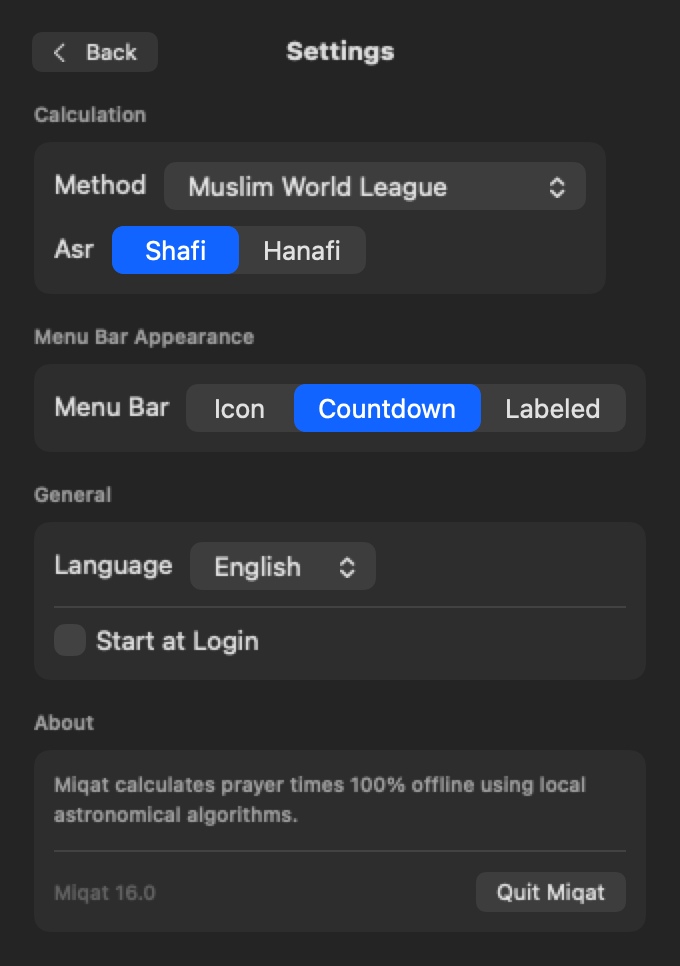
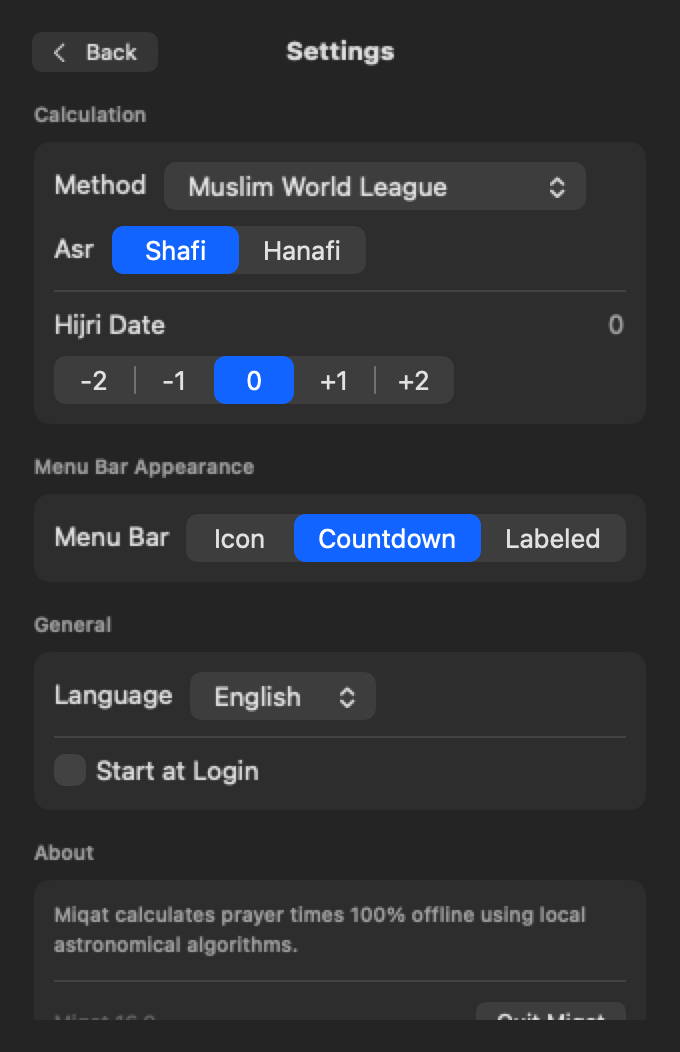
Fix Hijri calendar: use Umm al-Qura and add manual day offset

diff --git a/Miqat/Sources/SettingsView.swift b/Miqat/Sources/SettingsView.swift
@@ -56,6 +56,25 @@ struct SettingsView: View {
                                 }
                             }
                             .pickerStyle(.segmented)
+
+                            Divider()
+
+                            HStack {
+                                Text(localization.string("settings.hijriOffset"))
+                                Spacer()
+                                Text(hijriOffsetDisplay)
+                                    .foregroundStyle(.secondary)
+                            }
+
+                            Picker(localization.string("settings.hijriOffset"), selection: $store.hijriOffset) {
+                                Text("-2").tag(-2)
+                                Text("-1").tag(-1)
+                                Text("0").tag(0)
+                                Text("+1").tag(1)
+                                Text("+2").tag(2)
+                            }
+                            .pickerStyle(.segmented)
+                            .labelsHidden()
                         }
                     }
 
@@ -133,5 +152,15 @@ struct SettingsView: View {
 
     private var versionString: String {
         Bundle.main.object(forInfoDictionaryKey: "CFBundleShortVersionString") as? String ?? "1.0.0"
+    }
+
+    private var hijriOffsetDisplay: String {
+        if store.hijriOffset == 0 {
+            return "0"
+        } else if store.hijriOffset > 0 {
+            return "+\(store.hijriOffset)"
+        } else {
+            return "\(store.hijriOffset)"
+        }
     }
 }

diff --git a/Miqat/Sources/MenuBarView.swift b/Miqat/Sources/MenuBarView.swift
@@ -136,7 +136,7 @@ struct MenuBarView: View {
                     .font(.caption)
                     .foregroundStyle(.tertiary)
 
-                Text(Self.hijriDateString(for: store.now, timeZone: store.displayTimeZone))
+                Text(Self.hijriDateString(for: store.now, timeZone: store.displayTimeZone, offset: store.hijriOffset))
                     .font(.caption)
                     .foregroundStyle(.secondary)
             }
@@ -154,13 +154,16 @@ struct MenuBarView: View {
         return formatter.string(from: date)
     }
 
-    private static func hijriDateString(for date: Date, timeZone: TimeZone?) -> String {
+    private static func hijriDateString(for date: Date, timeZone: TimeZone?, offset: Int = 0) -> String {
+        let calendar = Calendar(identifier: .islamicUmmAlQura)
+        let adjustedDate = calendar.date(byAdding: .day, value: offset, to: date) ?? date
+
         let formatter = DateFormatter()
-        formatter.calendar = Calendar(identifier: .islamicCivil)
+        formatter.calendar = calendar
         formatter.locale = Localization.shared.locale
         formatter.dateStyle = .long
         formatter.timeZone = timeZone ?? .current
-        return formatter.string(from: date)
+        return formatter.string(from: adjustedDate)
     }
 
     // MARK: - Schedule

diff --git a/Miqat/Sources/PrayerScheduleStore.swift b/Miqat/Sources/PrayerScheduleStore.swift
@@ -42,6 +42,14 @@ final class PrayerScheduleStore: ObservableObject {
         }
     }
 
+    /// Manual Hijri calendar offset in days (-2 ... +2) to match local moon sighting.
+    @Published var hijriOffset: Int = 0 {
+        didSet {
+            guard oldValue != hijriOffset else { return }
+            UserDefaults.standard.set(hijriOffset, forKey: Keys.hijriOffset)
+        }
+    }
+
     // MARK: - Live state
 
     /// The instant countdowns are measured against; ticks every second.
@@ -92,6 +100,7 @@ final class PrayerScheduleStore: ObservableObject {
         static let method = "miqat.method"
         static let madhab = "miqat.madhab"
         static let titleStyle = "miqat.titleStyle"
+        static let hijriOffset = "miqat.hijriOffset"
     }
 
     // MARK: - Lifecycle
@@ -112,6 +121,9 @@ final class PrayerScheduleStore: ObservableObject {
         if let stored = UserDefaults.standard.string(forKey: Keys.titleStyle),
            let restored = TitleStyle.migrate(stored) {
             titleStyle = restored
+        }
+        if UserDefaults.standard.object(forKey: Keys.hijriOffset) != nil {
+            hijriOffset = UserDefaults.standard.integer(forKey: Keys.hijriOffset)
         }
 
         tick()

diff --git a/Miqat/Sources/Localization.swift b/Miqat/Sources/Localization.swift
@@ -135,6 +135,7 @@ final class Localization: ObservableObject {
         "settings.section.appearance": "Menu Bar Appearance",
         "settings.section.general": "General",
         "settings.section.about": "About",
+        "settings.hijriOffset": "Hijri Date",
         "settings.offlineNote": "Miqat calculates prayer times 100% offline using local astronomical algorithms.",
 
         // Hero & Schedule
@@ -220,6 +221,7 @@ final class Localization: ObservableObject {
         "settings.section.appearance": "مظهر شريط القائمة",
         "settings.section.general": "عام",
         "settings.section.about": "حول التطبيق",
+        "settings.hijriOffset": "التاريخ الهجري",
         "settings.offlineNote": "يحسب مِيقَات مواقيت الصلاة دون اتصال بالإنترنت بنسبة 100٪ باستخدام خوارزميات فلكية محلية.",
 
         // Hero & Schedule

diff --git a/MiqatTests/PlacePersistenceTests.swift b/MiqatTests/PlacePersistenceTests.swift
@@ -83,4 +83,16 @@ final class PlacePersistenceTests: XCTestCase {
         XCTAssertEqual(store.place, place)
         XCTAssertFalse(store.today.isEmpty, "restoring a place should immediately produce a schedule")
     }
+
+    func testStorePersistsAndRestoresHijriOffset() {
+        let store = PrayerScheduleStore()
+        store.hijriOffset = 1
+        XCTAssertEqual(UserDefaults.standard.integer(forKey: "miqat.hijriOffset"), 1)
+
+        let restoredStore = PrayerScheduleStore()
+        XCTAssertEqual(restoredStore.hijriOffset, 1)
+
+        // Reset
+        UserDefaults.standard.removeObject(forKey: "miqat.hijriOffset")
+    }
 }
